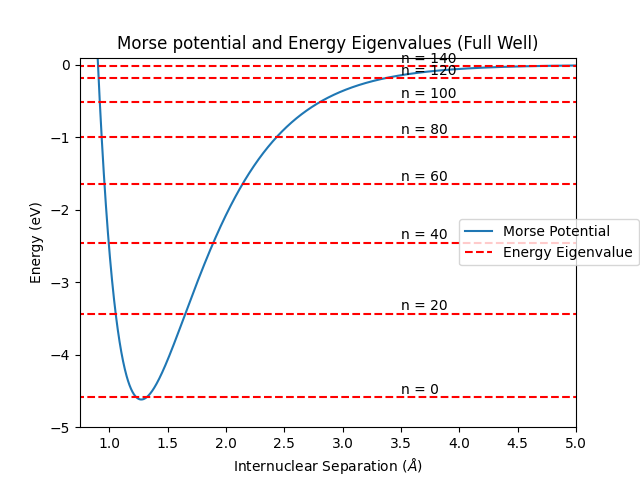
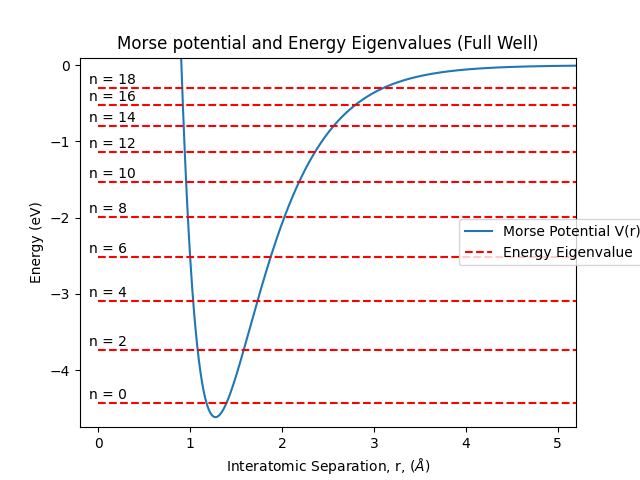
switched to reduced mass and adjusted plot limits

diff --git a/finite_difference_morse.py b/finite_difference_morse.py
@@ -16,8 +16,10 @@ import matplotlib.pyplot as plt
 # define physical constants
 hbar_c = 1973  # hbar*c in eV*Angstroms
 m_cl_amu = 35  # mass of chlorine in amu
+m_h_amu = 1  # mass of hydrogen in amu
+m = m_cl_amu*m_h_amu/(m_cl_amu + m_h_amu)  # reduced mass
 amu_MeV_by_c2 = 931.49432  # conversion factor 1 amu = 931.49432 MeV/c^2
-m_cl = m_cl_amu * amu_MeV_by_c2 * 1e6  # mass of chlorine in eV
+m_c2 = m * amu_MeV_by_c2 * 1e6  # mass of chlorine in eV
 
 De = 4.618  # Morse potential well depth in eV
 a = 1.869  # Morse potential "a" parameter in Angstroms^-1
@@ -39,7 +41,7 @@ V = np.diag(V_r)
 # K = -hbar^2/(2md^2)*diagonal_matrix_-2_1 (see derivation)
 # const C = =hbar^2/(2md^2) = (hbar*c)^2(2mc^2d^2), mc^2 has energy units, eV)
 d = r[1] - r[0]  # incremental step size
-ke_factor = -(hbar_c**2)/(2*m_cl*(d**2))
+ke_factor = -(hbar_c**2)/(2*m_c2*(d**2))
 # first create diagonal matrix of -2
 K = np.diag(-2*np.ones(n_steps))
 # Now fill elements above and below diagonal with 1
@@ -63,19 +65,19 @@ f1, ax1 = plt.subplots()
 morse, = ax1.plot(r, V_r)
 
 # Plot Energy Eigenvalues
-for i in range(0, 141, 20):
+for i in range(0, 19, 2):
     energy, = ax1.plot(E_u[i]*np.ones(n_steps), "r--")
     energy_level_string = "n = " + str(i)
-    ax1.text(3.5, E_u[i] + 0.05, energy_level_string)
+    ax1.text(-0.1, E_u[i] + 0.05, energy_level_string)
 
 # Add legend
-ax1.legend([morse, energy], ["Morse Potential", "Energy Eigenvalue"],
+ax1.legend([morse, energy], ["Morse Potential V(r)", "Energy Eigenvalue"],
            loc="center left", bbox_to_anchor=(.75, 0.5))
 
 # Set axes limits/labels
-ax1.set_xlim(0.75, 5)
-ax1.set_ylim(-5, 0.1)
-ax1.set_xlabel(r"Internuclear Separation ($\AA$)")
+ax1.set_xlim(-0.2, 5.2)
+ax1.set_ylim(-4.75, 0.1)
+ax1.set_xlabel(r"Interatomic Separation, r, ($\AA$)")
 ax1.set_ylabel("Energy (eV)")
 ax1.set_title("Morse potential and Energy Eigenvalues (Full Well)")
 plt.savefig("full_morse_and_energies.png")
@@ -92,13 +94,13 @@ for i in range(0, 7):
     ax2.text(1.27, E_u[i] + 0.01, energy_level_string)
 
 # Add legend
-ax2.legend([morse, energy], ["Morse Potential", "Energy Eigenvalue"],
+ax2.legend([morse, energy], ["Morse Potential V(r)", "Energy Eigenvalue"],
            loc="best")
 
 # Set axes limits/labels
-ax2.set_xlim(1.1, 1.5)
-ax2.set_ylim(-4.65, -4.2)
-ax2.set_xlabel(r"Internuclear Separation ($\AA$)")
+ax2.set_xlim(0.9, 2)
+ax2.set_ylim(-4.65, -2.4)
+ax2.set_xlabel(r"Interatomic Separation, r, ($\AA$)")
 ax2.set_ylabel("Energy (eV)")
 ax2.set_title("Morse potential and Energy Eigenvalues (Bottom of Well)")
 plt.savefig("lower_well_morse_energies.png")
@@ -130,10 +132,10 @@ ax3.legend([ground, first_excited, second_excited],
            loc="best")
 
 # Set axes limits/labels
-ax3.set_xlim(1.1, 1.45)
-ax3.set_ylim(0, 0.25)
-ax3.set_xlabel(r"Internuclear Separation ($\AA$)")
-ax3.set_ylabel(r"Probability of Separation (|$U^2$|)")
+ax3.set_xlim(0.9, 1.7)
+ax3.set_ylim(0, 0.14)
+ax3.set_xlabel(r"Interatomic Separation, r, ($\AA$)")
+ax3.set_ylabel(r"Probability of Separation (|$U(r)^2$|)")
 ax3.set_title("Probability Distributions for Ground State and First Two Excited States")
 plt.savefig("morse_prob_distribs.png")
 f3.show()
@@ -147,7 +149,7 @@ print("Calculated Ground State Energy (eV):", E_u[0])
 # hv0 = a*hbarc*sqrt(2De/mc^2)
 # Then shift energies down by De to match location of Morse
 n_vals = np.arange(n_steps)
-hv0 = a*hbar_c*np.sqrt(2*De/m_cl)
+hv0 = a*hbar_c*np.sqrt(2*De/m_c2)
 En_act = (hv0*(n_vals + 0.5) - (((hv0*(n_vals + 0.5))**2)/(4*De))) - De
 print("Actual Ground State Energy (eV):", En_act[0])
 
